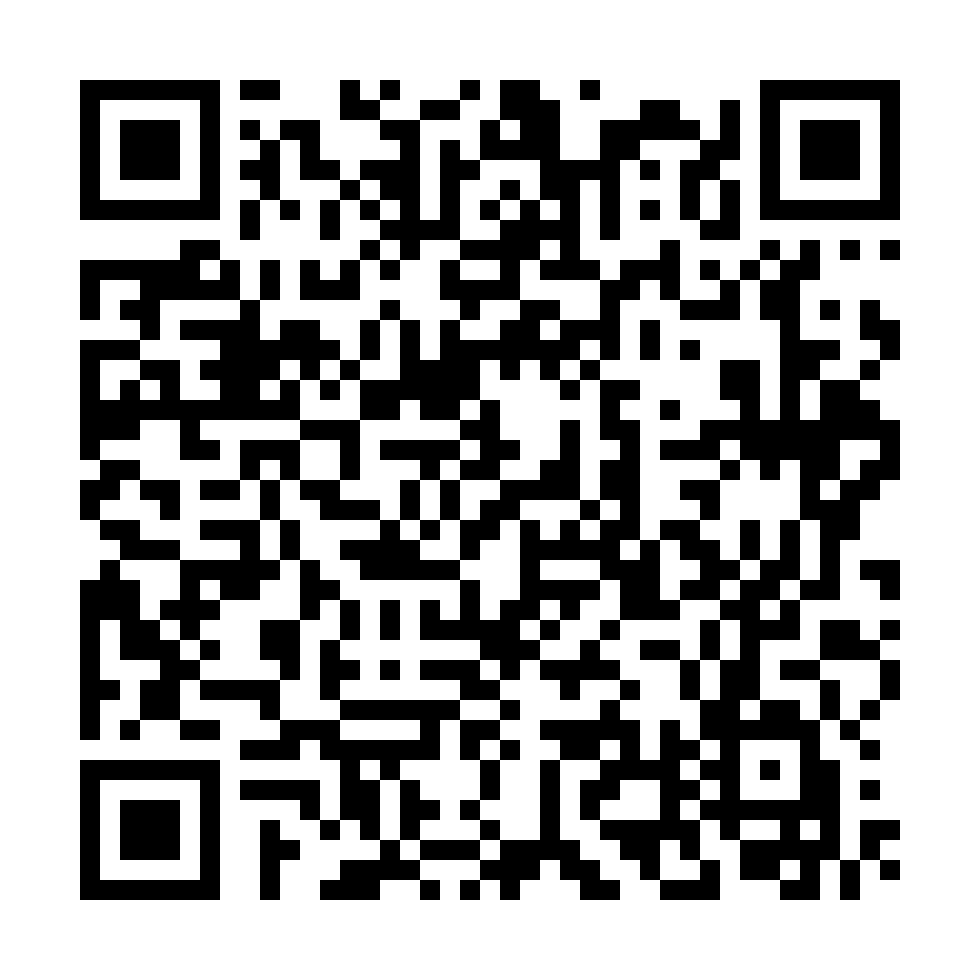
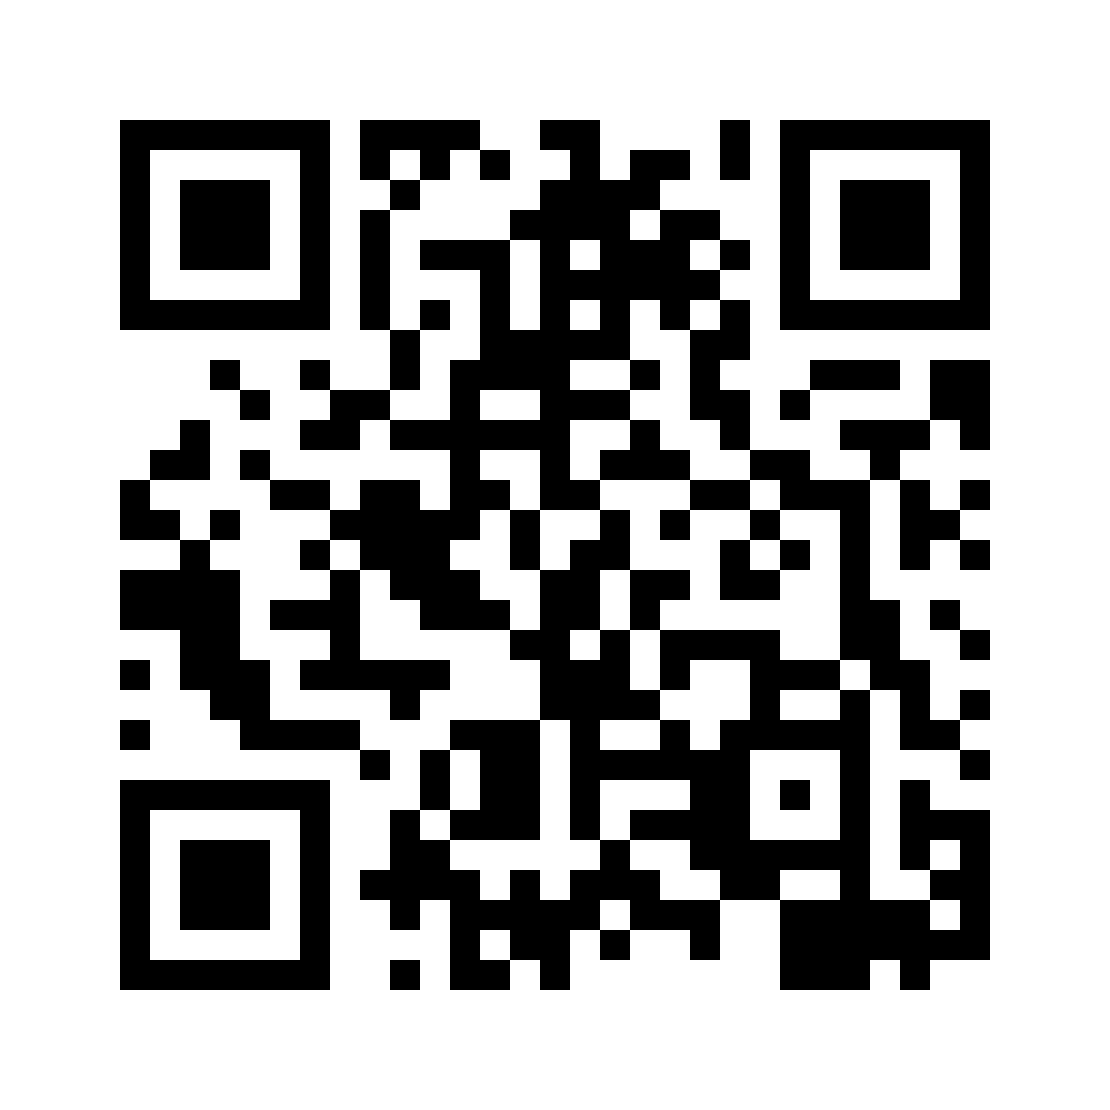
Point site at can-lizzy-escape.us and regenerate QR code

diff --git a/assets/print.html b/assets/print.html
@@ -34,6 +34,6 @@
 <body>
   <img src="qr-code.png" alt="QR Code" />
   <h1>Scan to Play</h1>
-  <p>ari-h-stromberg.github.io/qr-music-page</p>
+  <p>can-lizzy-escape.us</p>
 </body>
 </html>

diff --git a/README.md b/README.md
@@ -25,14 +25,14 @@ Sources were `.m4a` (AAC), transcoded to 128 kbps MP3 to keep downloads fast ove
 
 ## Hosting
 
-This repo is served via [GitHub Pages](https://pages.github.com/).
+Served via [GitHub Pages](https://pages.github.com/) at **https://can-lizzy-escape.us**, with HTTPS enforced via a Let's Encrypt certificate that GitHub renews automatically.
 
-## Custom domain
+The domain is registered at Cloudflare, which also hosts its DNS. The apex points at GitHub Pages with `A` records (185.199.108–111.153) and `AAAA` records (2606:50c0:8000–8003::153). These must stay **DNS only** (grey cloud) in Cloudflare — proxying them breaks the TLS handshake with GitHub.
 
-To point a custom domain at this site later:
+The old `ari-h-stromberg.github.io/qr-music-page` address still works and 301-redirects here.
 
-1. Add a `CNAME` file to the repo root containing just your domain (e.g. `music.example.com`)
-2. In your DNS provider, add either:
-   - A `CNAME` record for a subdomain pointing to `<username>.github.io`, or
-   - `A` records for an apex domain pointing to GitHub Pages' IPs (185.199.108.153, 185.199.109.153, 185.199.110.153, 185.199.111.153)
-3. In the repo's GitHub Settings → Pages, set the custom domain and enable "Enforce HTTPS" once DNS propagates
+## QR code
+
+`assets/qr-code.png` encodes `HTTPS://CAN-LIZZY-ESCAPE.US`. The uppercase is deliberate: URLs are case-insensitive, and uppercase lets the QR use alphanumeric encoding mode instead of byte mode, which shrinks the grid from 33×33 to 29×29 and makes each printed square proportionally larger and easier to scan.
+
+Open `assets/print.html` and print it for a ready-made 3.5 inch version.
